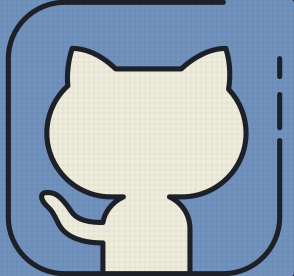
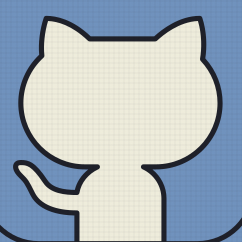
hamburger menu layout modifcations/ new github link image

Changed region(s): [[0.0, 0.0, 1.0, 1.0], [0.9256, 0.2025, 0.9835, 0.2893], [0.9835, 0.9835, 1.0, 1.0]]

diff --git a/src/css/Hamburger.css b/src/css/Hamburger.css
@@ -1,94 +1,94 @@
 /* Position and sizing of burger button */
 .bm-burger-button {
-    position: fixed;
-    width: 2.2rem;
-    height: 2rem;
-    left: 1rem;
-    top: .5rem;
-  }
-  
-  /* Color/shape of burger icon bars */
-  .bm-burger-bars {
-    background: #373a47;
-  }
-  
-  /* Color/shape of burger icon bars on hover*/
-  .bm-burger-bars-hover {
-    background: #fcf6f6;
-  }
-  
-  /* Position and sizing of clickable cross button */
-  .bm-cross-button {
-    height: 24px;
-    width: 24px;
-  }
-  
-  /* Color/shape of close button cross */
-  .bm-cross {
-    background: #bdc3c7;
-  }
-  
-  /*
+  position: fixed;
+  width: 8vw;
+  height: 4vh;
+  margin-left: 1rem;
+  margin-top: .2rem;
+}
+
+/* Color/shape of burger icon bars */
+.bm-burger-bars {
+  background: #373a47;
+}
+
+/* Color/shape of burger icon bars on hover*/
+.bm-burger-bars-hover {
+  background: #fcf6f6;
+}
+
+/* Position and sizing of clickable cross button */
+.bm-cross-button {
+  height: 24px;
+  width: 24px;
+}
+
+/* Color/shape of close button cross */
+.bm-cross {
+  background: #bdc3c7;
+}
+
+/*
   Sidebar wrapper styles
   Note: Beware of modifying this element as it can break the animations - you should not need to touch it in most cases
   */
-  .bm-menu-wrap {
-    position: fixed;
-    height: 100%;
-  }
-  
-  /* General sidebar styles */
-  .bm-menu {
-    background: #3d3f4b;
-    padding: 2.5em 1.5em 0;
-    font-size: 1.15em;
-  }
-  
-  /* Morph shape necessary with bubble or elastic */
-  .bm-morph-shape {
-    fill: #3d3f4b;
-  }
-  
-  /* Wrapper for item list */
-  .bm-item-list {
-    color: #b8b7ad;
-    padding: 0.8em;
-  }
-  
-  /* Individual item */
-  .bm-item {
-    display: inline-block;
-    text-decoration: none;
-    color: #fcf6f6;
-    margin-bottom: .8rem;
-    font-size: 2rem;
-  }
-  
-  /* Styling of overlay */
-  .bm-overlay {
-    background: rgba(0, 0, 0, 0.3);
-  }
+.bm-menu-wrap {
+  position: fixed;
+  height: 100%;
+}
 
-  .burgerLinks {
-    display: flex;
-    align-items: center;
-    width: 100%;
-  }
+/* General sidebar styles */
+.bm-menu {
+  background: #3d3f4b;
+  padding: 2.5em 1.5em 0;
+  font-size: 1.15em;
+}
 
-  .burgerLinkedIn {
-    width: 20vw;
-    height: auto;
-    border-radius: 1rem;
-    margin-left: 1rem;
-  }
+/* Morph shape necessary with bubble or elastic */
+.bm-morph-shape {
+  fill: #3d3f4b;
+}
 
-  .burgerGithub {
-    width: 20vw;
-    height: auto;
-    border-radius: 1rem;
-    margin-right: 1rem;
-  }
+/* Wrapper for item list */
+.bm-item-list {
+  color: #b8b7ad;
+  padding: 0.8em;
+}
 
-#contact{
-    margin-bottom: 35rem;
+/* Individual item */
+.bm-item {
+  display: inline-block;
+  text-decoration: none;
+  color: #fcf6f6;
+  margin-bottom: 0.8rem;
+  font-size: 2rem;
+}
+
+/* Styling of overlay */
+.bm-overlay {
+  background: rgba(0, 0, 0, 0.3);
+}
+
+.burgerLinks {
+  display: flex;
+  align-items: center;
+  width: 100%;
+}
+
+.burgerLinkedIn {
+  width: 20vw;
+  height: auto;
+  border-radius: 1rem;
+  margin-left: 1rem;
+}
+
+.burgerGithub {
+  width: 20vw;
+  height: auto;
+  border-radius: 1rem;
+  margin-right: 1rem;
+}
+
+#contact {
+  margin-bottom: 25rem;
 }

diff --git a/src/css/Nav.css b/src/css/Nav.css
@@ -4,4 +4,5 @@
     background-color: #5a7a80 ;
     z-index: 1;
     position:fixed;
+    display: flex;
 }
